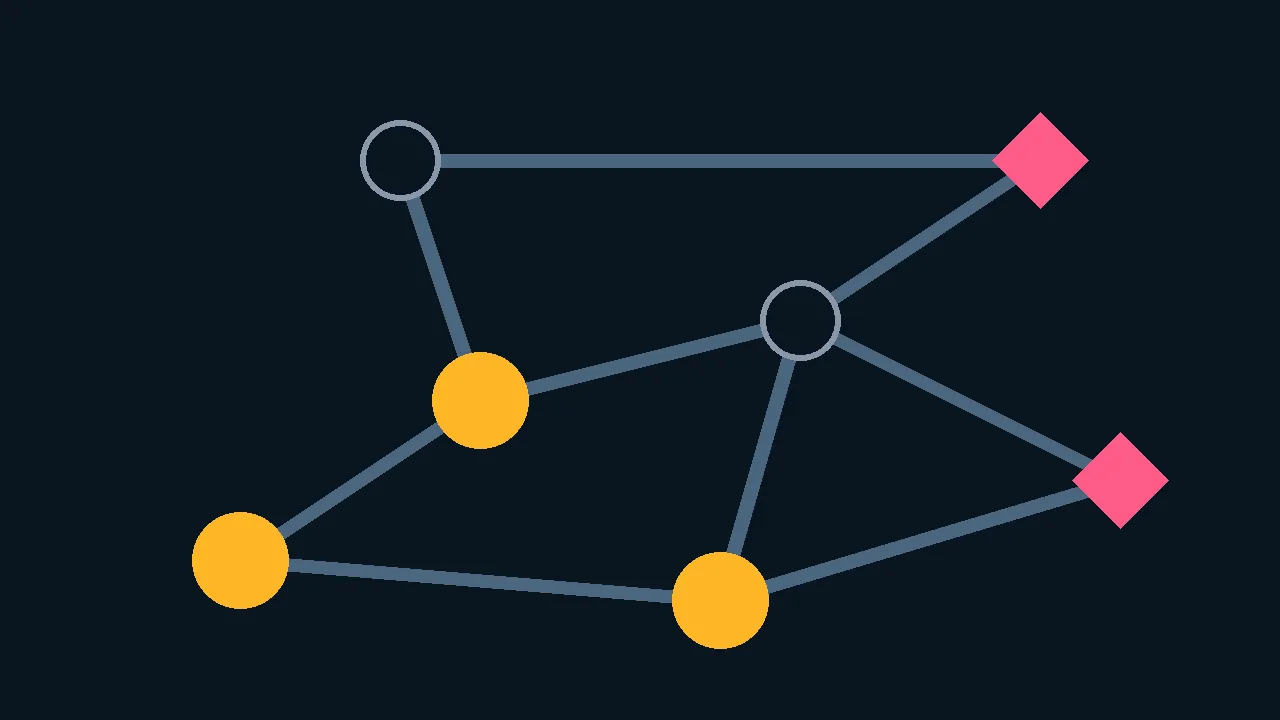
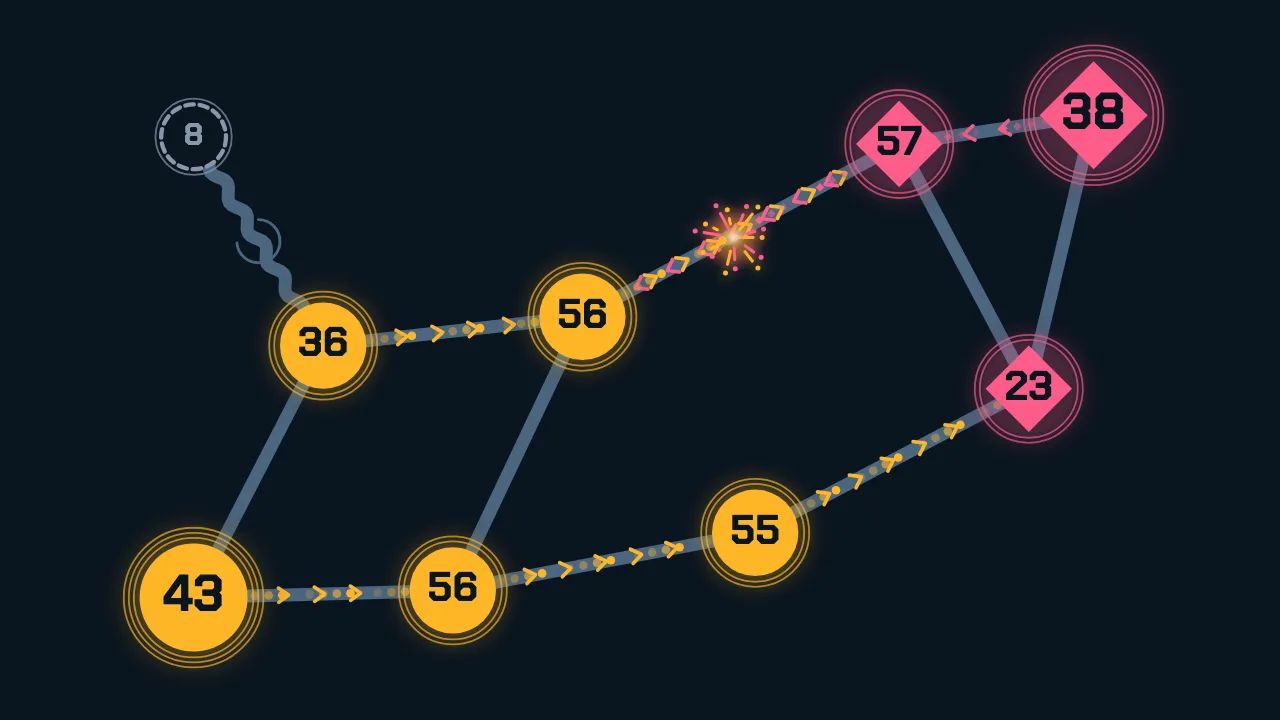
feat(delta): replace the placeholder cover with the final artwork
The cover now uses the game's own rendering, like the other games:
amber currents climb towards the rival's diamonds, and two currents
cancel out in a burst of sparks midway.

Changed region(s): [[0.0938, 0.0611, 0.9375, 0.9472]]

diff --git a/specs/delta/BUILD-PLAN.md b/specs/delta/BUILD-PLAN.md
@@ -164,7 +164,7 @@ son pendant la pause.
 
 **Critère :** tous les critères [manuel] revérifiés sur un téléphone réel.
 
-**Statut :** à faire.
+**Statut :** fait.
 
 **Prompt :**
 ```
